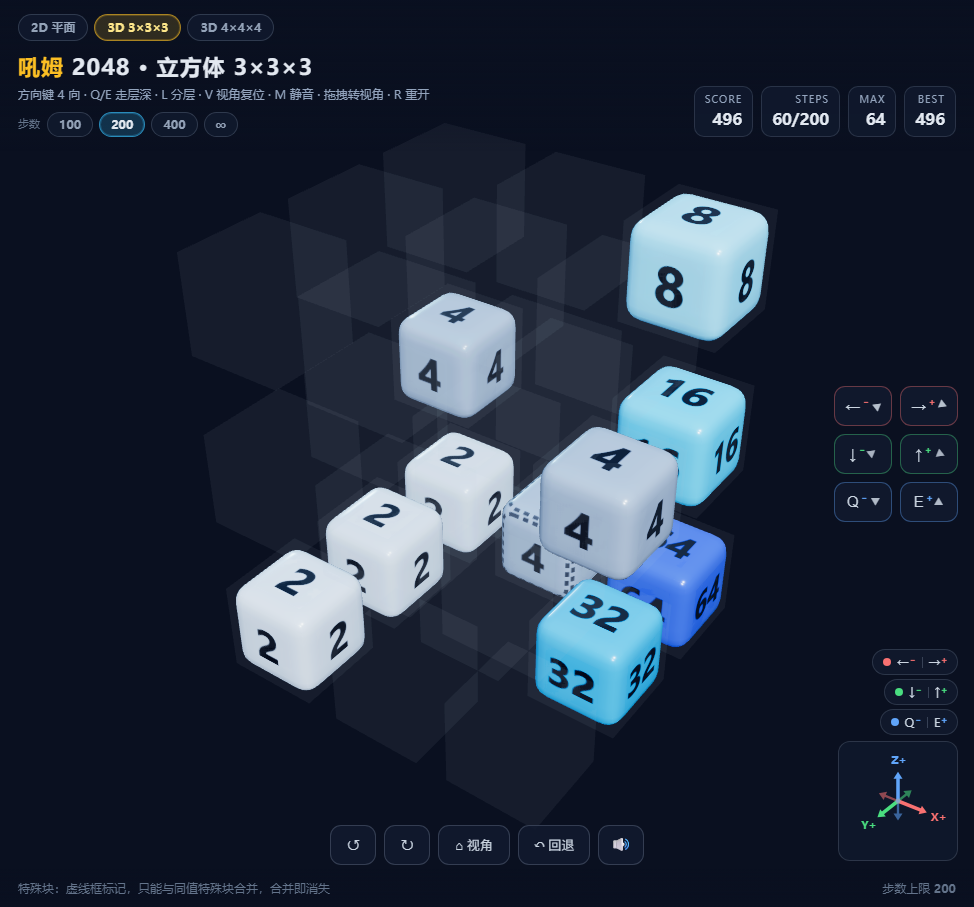
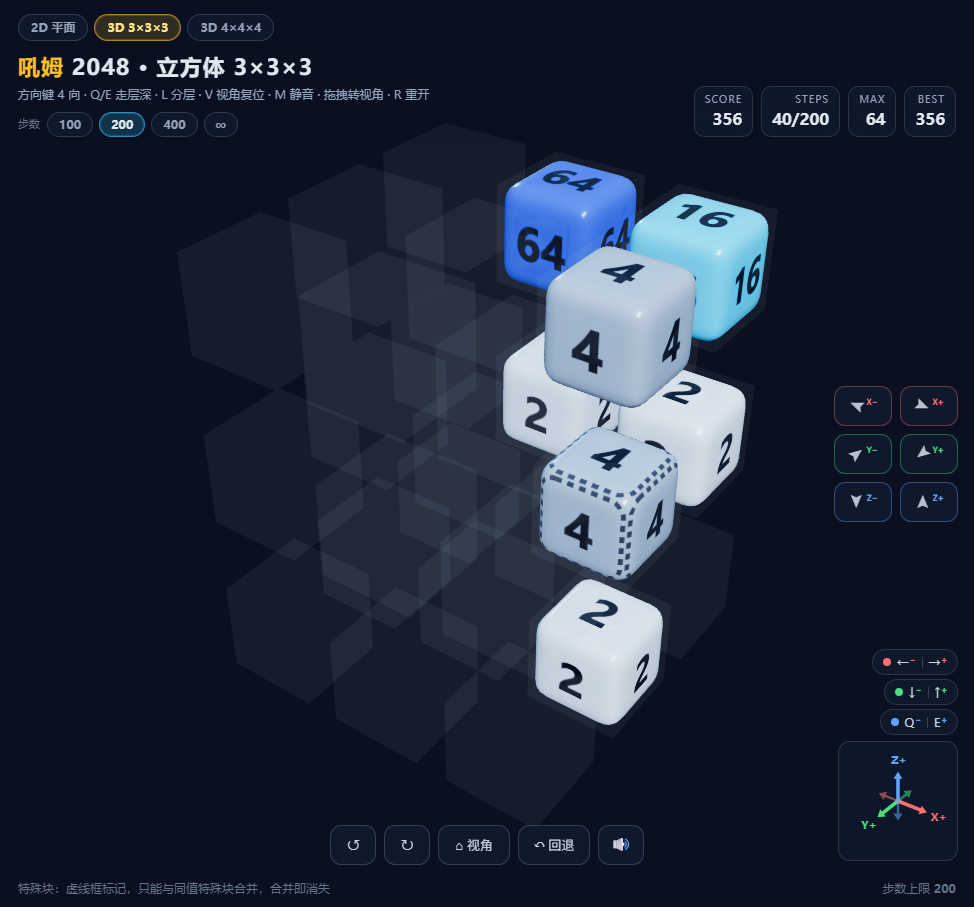
feat(pad): 方向按钮的箭头改成跟随视角
- 原来按钮上是写死的 ←→↓↑，相机一转就和屏幕方向对不上；右侧 9px 小三角没人看得懂
- 现在每个按钮画一个大箭头，角度按当前机位的投影实时旋转，颜色跟轴线一致
- 标签改成 X± / Y± / Z± 标明世界轴；轴几乎正对镜头时箭头改成「近 / 远」
- axesScreen 额外返回相机空间 z 分量，用于判断朝向观察者

diff --git a/index.html b/index.html
@@ -130,6 +130,18 @@
     font-size: 9px; line-height: 1; opacity: .6; transition: transform .12s, opacity .12s;
     display: inline-block;
   }
+  /* 方向按钮里的大箭头：角度跟着机位转，指向“按下去方块在屏幕上往哪走”。
+     轴几乎正对镜头时换成“近/远”两个字，免得箭头指着一个没意义的角度。 */
+  .arw {
+    display: inline-block; font-size: 17px; line-height: 1; opacity: .95;
+    transform: rotate(var(--rot, 0deg));
+    transition: transform .16s ease;
+  }
+  .arw.text { font: 700 11px/1 "Microsoft YaHei", system-ui; letter-spacing: 0; }
+  /* 箭头跟轴线同色，配合 X/Y/Z 标签区分“屏幕上看起来很像的两条轴” */
+  .pad-side .dir[data-dir^=x] .arw { color: #f87171; }
+  .pad-side .dir[data-dir^=y] .arw { color: #4ade80; }
+  .pad-side .dir[data-dir^=z] .arw { color: #60a5fa; }
   .dir.off { opacity: .3; pointer-events: none; }
 
   /* ---- 维度切换（左上角，2D 平面 / 3D 立方） ---- */
@@ -327,12 +339,12 @@
 </footer>
 
 <div class="pad-side" id="pad-side">
-  <button class="dir" data-dir="x-">←<b>−</b><span class="tip">▶</span></button>
-  <button class="dir" data-dir="x+">→<b>+</b><span class="tip">▶</span></button>
-  <button class="dir" data-dir="y-">↓<b>−</b><span class="tip">▶</span></button>
-  <button class="dir" data-dir="y+">↑<b>+</b><span class="tip">▶</span></button>
-  <button class="dir" data-dir="z-">Q<b>−</b><span class="tip">▶</span></button>
-  <button class="dir" data-dir="z+">E<b>+</b><span class="tip">▶</span></button>
+  <button class="dir" data-dir="x-"><span class="arw">➤</span><b>X−</b></button>
+  <button class="dir" data-dir="x+"><span class="arw">➤</span><b>X+</b></button>
+  <button class="dir" data-dir="y-"><span class="arw">➤</span><b>Y−</b></button>
+  <button class="dir" data-dir="y+"><span class="arw">➤</span><b>Y+</b></button>
+  <button class="dir" data-dir="z-"><span class="arw">➤</span><b>Z−</b></button>
+  <button class="dir" data-dir="z+"><span class="arw">➤</span><b>Z+</b></button>
 </div>
 
 <div class="pad" id="pad">
@@ -552,10 +564,10 @@
     },
     label: document.getElementById(`l${ax}`),
   }))
-  // 光标按钮：与键盘同一套世界轴。右侧小三角按当前机位旋转，
-  // 直接告诉玩家“按这个，块会往屏幕哪边走”。
+  // 光标按钮：与键盘同一套世界轴。箭头角度按当前机位实时算，
+  // 直接告诉玩家“按这个，块会往屏幕哪边走”；轴正对镜头时改显示「近 / 远」。
   const PAD = [...document.querySelectorAll('.pad-side .dir[data-dir]')].map((el) => ({
-    el, dir: el.dataset.dir, tip: el.querySelector('.tip'),
+    el, dir: el.dataset.dir, arw: el.querySelector('.arw'),
   }))
   const viewBtn = document.querySelector('.pad .dir[data-act=view]')
   const yawLBtn = document.querySelector('.pad .dir[data-act=yaw-l]')
@@ -605,19 +617,23 @@
       it.label.setAttribute('y', (uy * (L_POS * len + 12) + 4).toFixed(1))
       it.label.style.opacity = vis.toFixed(2)
     }
-    for (const { tip, dir } of PAD) {
+    for (const { arw, dir } of PAD) {
       const p = a[AXIS_OF[dir[0]]]
       const s = dir[1] === '+' ? 1 : -1
       const vx = p.x * s
       const vy = p.y * s
       const len = Math.hypot(vx, vy)
+      // 轴几乎正对镜头：屏幕方向没有意义，换成「近 / 远」（z 分量决定朝观察者还是背离）
       if (len < 0.2) {
-        // 这根轴几乎正对镜头，屏幕上看不出方向，藏起指南针
-        tip.style.opacity = '0'
+        const toward = (p.z || 0) * s > 0
+        arw.textContent = toward ? '近' : '远'
+        arw.classList.add('text')
+        arw.style.setProperty('--rot', '0deg')
         continue
       }
-      tip.style.opacity = String(0.45 + 0.5 * Math.min(1, len))
-      tip.style.transform = `rotate(${(Math.atan2(vy, vx) * 180 / Math.PI).toFixed(0)}deg)`
+      arw.textContent = '➤'
+      arw.classList.remove('text')
+      arw.style.setProperty('--rot', `${(Math.atan2(vy, vx) * 180 / Math.PI).toFixed(0)}deg`)
     }
   }
   // 初始画一次坐标轴（相机建好时回调还没挂上）

diff --git a/game3d.js b/game3d.js
@@ -172,7 +172,8 @@
       const out = {}
       for (const [name, vec] of Object.entries({ x: [1, 0, 0], y: [0, 1, 0], z: [0, 0, 1] })) {
         const v = new THREE.Vector3(vec[0], vec[1], vec[2]).transformDirection(camera.matrixWorldInverse)
-        out[name] = { x: v.x, y: -v.y }
+        // z 是相机空间的前后分量：>0 表示这个方向朝观察者（用来判断「近 / 远」）
+        out[name] = { x: v.x, y: -v.y, z: v.z }
       }
       return out
     }

diff --git a/README.md b/README.md
@@ -33,7 +33,7 @@ python -m http.server 8000
 | 操作 | 3D（3×3×3 / 4×4×4） | 2D 平面 |
 | --- | --- | --- |
 | 移动 | ←→ 走 X 轴、↑↓ 走 Y 轴（纵深）、Q/E 走 Z 轴（层深）；手机上是**单指滑动**（按屏幕上最接近的方向） | ←→↑↓ 或 WASD，或在棋盘上滑动 |
-| 光标移动 | 右侧中部六个按钮，与键盘同一套世界轴 | 无（方向键即可） |
+| 光标移动 | 右侧中部六个按钮：箭头**跟着视角转**，指向“按下去方块在屏幕上往哪走”；轴正对镜头时显示「近 / 远」。标签 `X± / Y± / Z±` 标明世界轴 | 无（方向键即可） |
 | 分层 / 紧凑 | L | — |
 | 转动视角 | 鼠标拖动 / 双指拖动 / 底部 `↺` `↻`（点一下转 20° 带缓动，按住连续转；Shift+←/→ 同效），滚轮缩放 | — |
 | 回退一步 | 底部 `↶ 回退` 或 Ctrl+Z，最多 50 步 | 同左 |
